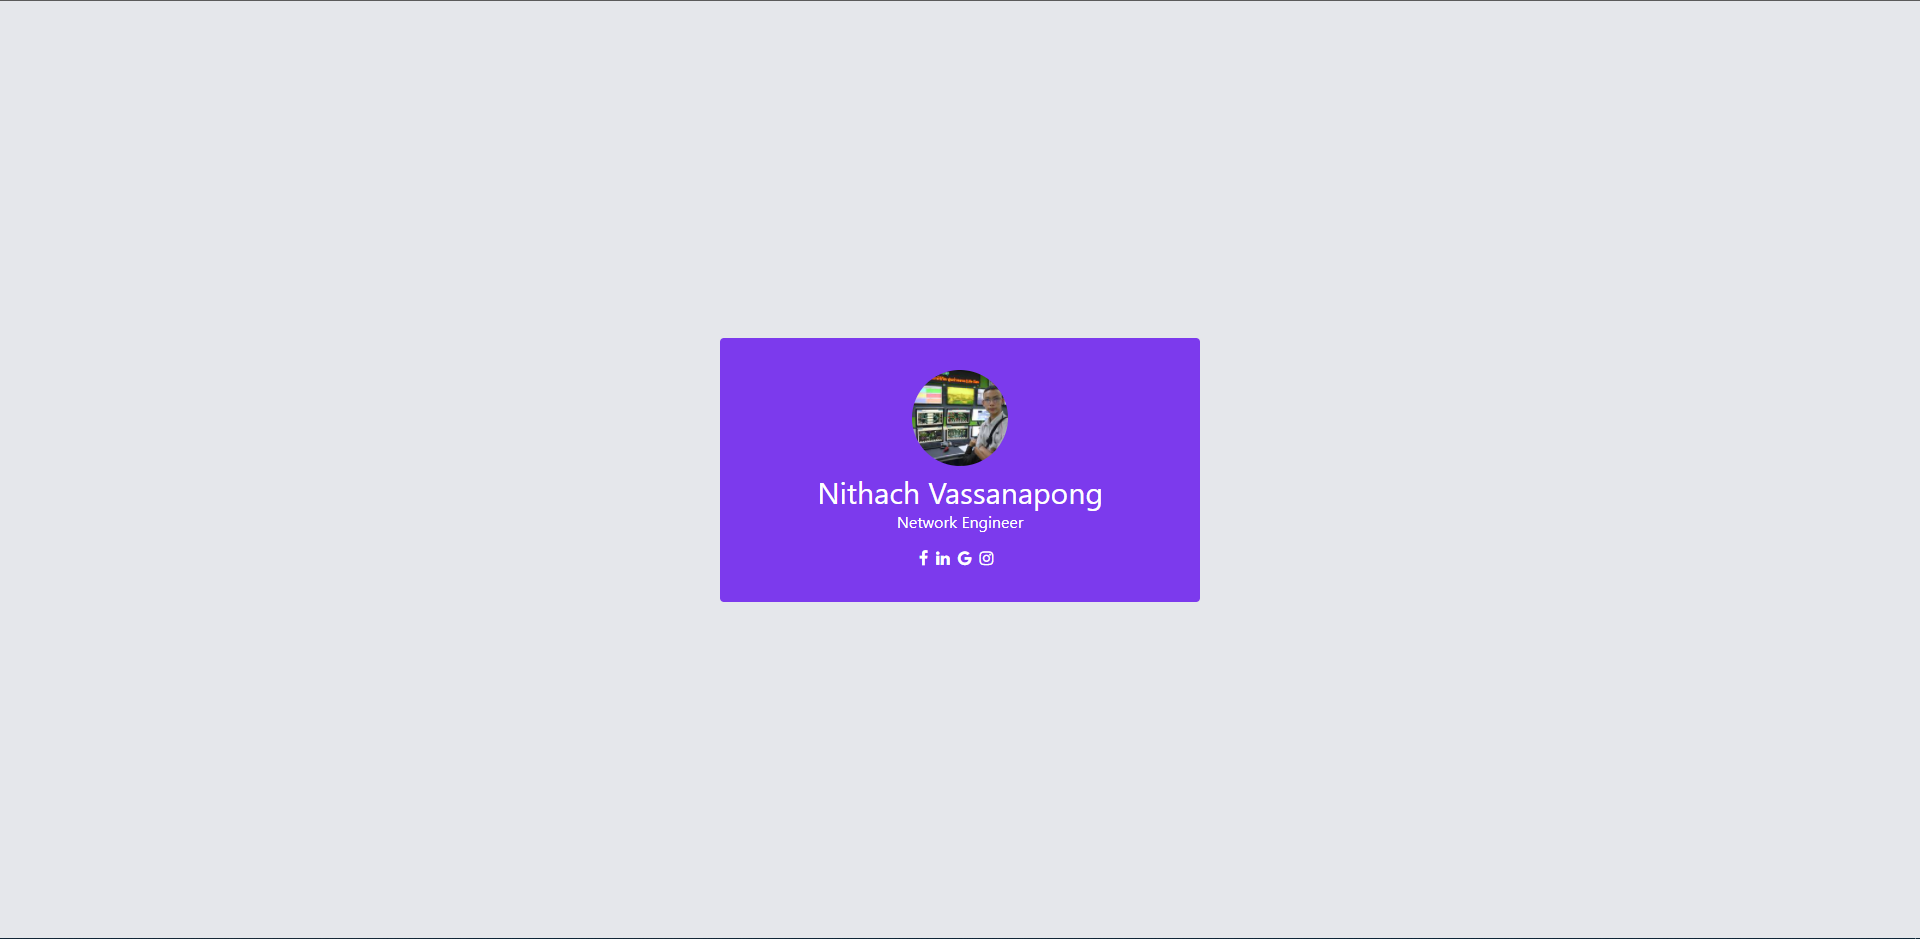
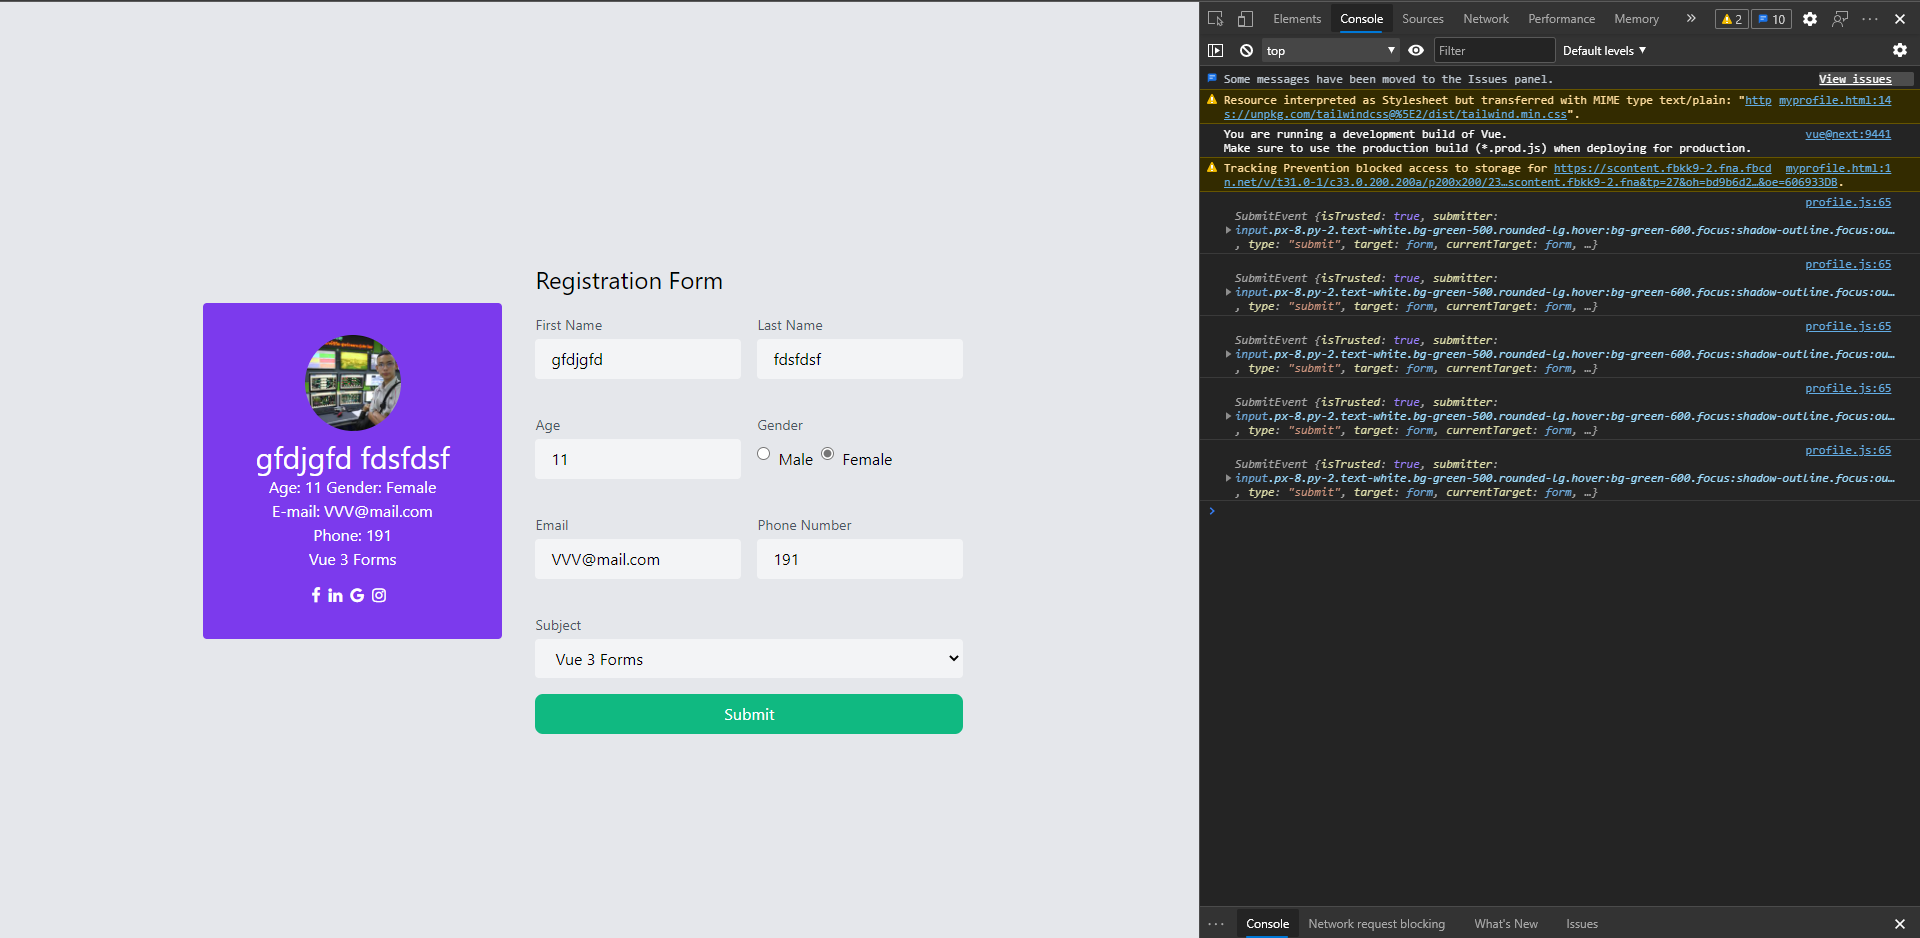
[update] completed registration form

diff --git a/profile.js b/profile.js
@@ -21,8 +21,8 @@ const constraints = {
     phone: {
         presence: true,
         length: {
-            minimum : 10,
-            message: "must be at least 10 digits"
+            minimum : 3,
+            message: "must be at least 3 digits"
         },        
     },
     chosensubject: {
@@ -33,12 +33,16 @@ const constraints = {
 var app =Vue.createApp({
     data() {
         return {
-            imgProfileUrl: 'https://scontent.fbkk9-2.fna.fbcdn.net/v/t31.0-1/c27.0.160.160a/p160x160/23593671_1661648053886646_4665329394504623547_o.jpg?_nc_cat=109&ccb=2&_nc_sid=dbb9e7&_nc_ohc=hOeG_yVumB8AX_P23XX&_nc_ht=scontent.fbkk9-2.fna&tp=27&oh=9da976f75ce5332855088eeee57f64ed&oe=6040BD59',
-            info: 'Network Engineer',
+            imgProfileUrl: 'https://scontent.fbkk9-2.fna.fbcdn.net/v/t31.0-1/c33.0.200.200a/p200x200/23593671_1661648053886646_4665329394504623547_o.jpg?_nc_cat=109&ccb=1-3&_nc_sid=7206a8&_nc_eui2=AeF4MamstvfHmUDLTFXbx9qcqt60xwZ205iq3rTHBnbTmMXmgz01u7UsNLxibQ1wpnGdO1LossuhCeJcUyRtycPm&_nc_ohc=rxeZwCgN9U0AX_jXjZx&_nc_ht=scontent.fbkk9-2.fna&tp=27&oh=bd9b6d265671f9b38f9daf4cebcb7024&oe=606933DB',
             facebookUrl: 'https://www.facebook.com/Bom.nithach/',
             instagramUrl: 'https://www.instagram.com/bom_2321/',
             firstname: 'Nithach',
             lastname: 'Vassanapong',
+            age: 20,
+            gender: 'Male',
+            email: 'Bom-_2321@outlook.co.th',
+            phone: '0875518757',
+            chosensubject: 'INT203',
             formdata: {
                 firstname: null,
                 lastname: null,
@@ -57,14 +61,19 @@ var app =Vue.createApp({
     },
 
     methods: {
-        checkForm(){
-            console.log(this.formdata)
+        checkForm(e){
+            console.log(e);
             this.errors = validate(this.formdata,
                                     constraints)
             if(!this.errors){
                 alert("Your profile is updated successfully.")
                 this.firstname = this.formdata.firstname;
                 this.lastname = this.formdata.lastname;
+                this.age = this.formdata.age;
+                this.gender = this.formdata.gender;
+                this.email = this.formdata.email;
+                this.phone = this.formdata.phone;
+                this.chosensubject = this.subject_lists[this.formdata.chosensubject-1].subject_name;
             }
         }
     }

diff --git a/myprofile.html b/myprofile.html
@@ -27,7 +27,10 @@
         <div class="bg-purple-600 text-white p-3 lg:w-1/4 sm:w-4/4 md:w-2/4 rounded text-center py-8 hover:shadow-md cursor-pointer">
             <div class="flex justify-center mb-2"> <img v-bind:src="imgProfileUrl" class="rounded-full h-24 w-24 flex items-center justify-center"> </div>
             <h1 class="text-3xl">{{firstname}} {{lastname}}</h1> 
-            <span class="text-1xl">{{info}}</span>
+            <span class="text-1xl">Age: {{age}} Gender: {{gender}}</span><br>
+            <span class="text-1xl">E-mail: {{email}}</span><br>
+            <span class="text-1xl">Phone: {{phone}}</span><br>
+            <span class="text-1xl">{{chosensubject}}</span>
             <div class="mt-3"> 
                 <a v-bind:href="facebookUrl"><i class="fa fa-facebook mr-2"></i></a> 
                 <a href=""><i class="fa fa-linkedin mr-2"></i></a> 
@@ -37,7 +40,7 @@
         </div>
 
         <form @submit.prevent="checkForm">
-            <div class="container w-2/5 p-8 mx-auto mt-10 border rounded-lg">
+            <div class="container p-8 mx-auto mt-10 border rounded-lg">
                 <h1 class="text-2xl pt-4 pb-4">Registration Form</h1>
                 <p v-if="errors" class="text-red-500">
                     <b>Please correct the following error(s):</b>
@@ -61,9 +64,9 @@
                     <div class="flex flex-col">
                         <label class="text-sm leading-7 text-gray-600">Gender</label>
                         <div class="flex flex-row pt-2 space-x-2">
-                            <input type="radio" id="Male" v-model="formdata.gender" name="gender" value="M" class="bg-gray-100 rounded px-4 py-2 mb-4">
+                            <input type="radio" id="Male" v-model="formdata.gender" name="gender" value="Male" class="bg-gray-100 rounded px-4 py-2 mb-4">
                             <label for="Male">Male</label>
-                            <input type="radio" id="Female" v-model="formdata.gender" name="gender" value="F" class="bg-gray-100 rounded px-4 py-2 mb-4">
+                            <input type="radio" id="Female" v-model="formdata.gender" name="gender" value="Female" class="bg-gray-100 rounded px-4 py-2 mb-4">
                             <label for="Female">Female</label>
                         </div>
                     </div>
